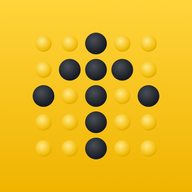
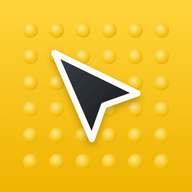
Icono nuevo: punta de flecha de cursor sobre baldosa podotáctil
Claude-Session: https://claude.ai/code/session_01Q1vA1U9AguCYpA29rvSQ8a

diff --git a/sw.js b/sw.js
@@ -1,6 +1,6 @@
 // Paso Firme: caché para instalar y abrir sin conexión, y cabeceras de aislamiento
 // (necesarias para que el medidor de profundidad use varios núcleos del móvil).
-const CACHE = 'paso-firme-v5';
+const CACHE = 'paso-firme-v6';
 const SHELL = ['./', 'index.html', 'manifest.webmanifest', 'icon-192.png', 'icon-512.png', 'tf.min.js', 'coco-ssd.min.js'];
 
 self.addEventListener('install', e => {
